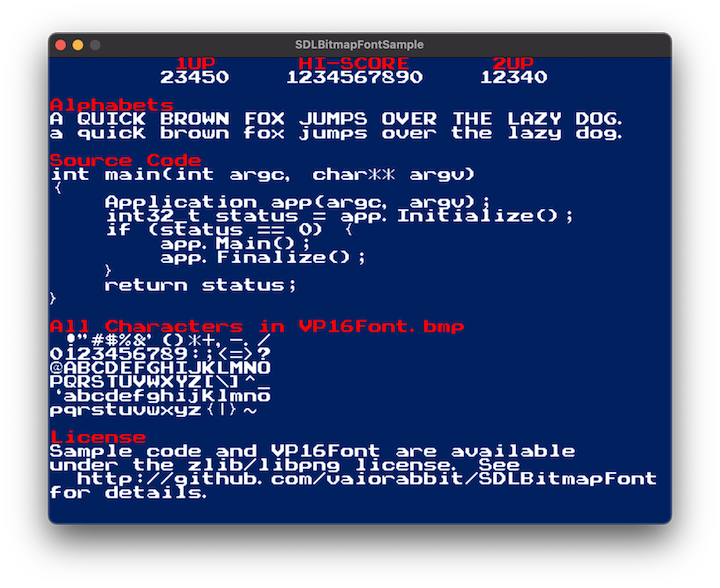
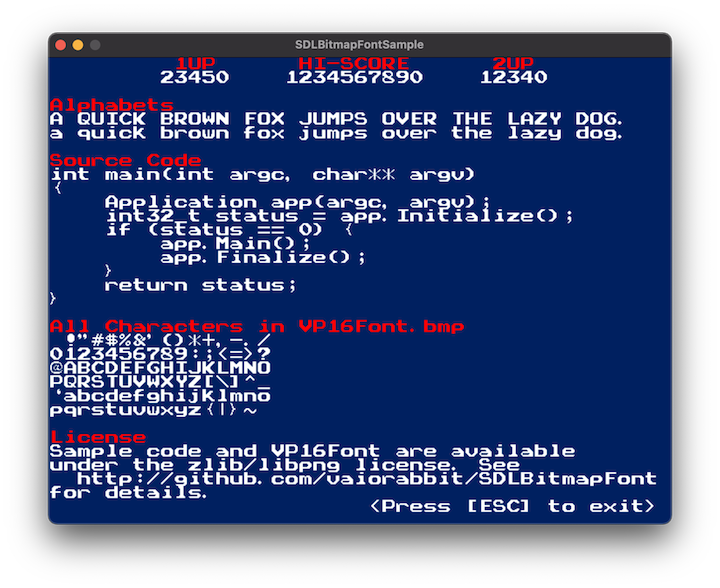
Cleanup sample

Changed region(s): [[0.5194, 0.8265, 0.7333, 0.8878], [0.7639, 0.8265, 0.9167, 0.8878]]

diff --git a/sample/SDLBitmapFontSample.cpp b/sample/SDLBitmapFontSample.cpp
@@ -17,6 +17,7 @@ public:
 
     int32_t Initialize()
     {
+        // Initialize SDL
         uint32_t initFlag = SDL_INIT_VIDEO;
 
         if (SDL_Init(initFlag) != 0) {
@@ -29,7 +30,7 @@ public:
 
         // Font
         const SDL_Color colorWhite = {255, 255, 255, 255};
-        const SDL_Color colorRed = {255 , 0, 0, 255};
+        const SDL_Color colorRed = {255, 0, 0, 255};
 
         m_fontNormal = new SDLBitmapFont();
         m_fontHeader = new SDLBitmapFont();
@@ -72,45 +73,51 @@ public:
                 }
             }
 
-            SDL_Color colorClear = {0x00, 0x20, 0x60, 0x00};
+            const SDL_Color colorClear = {0x00, 0x20, 0x60, 0x00};
             SDL_SetRenderDrawColor(m_renderer, colorClear.r, colorClear.g, colorClear.b, colorClear.a);
             SDL_RenderClear(m_renderer);
 
-            m_fontHeader->RenderText(m_renderer, 0, 16 * 0, "         1UP      HI-SCORE      2UP");
-            m_fontNormal->RenderText(m_renderer, 0, 16 * 1, "        23450    1234567890    12340");
+            const int32_t FW = 16; // Font width
+            m_fontHeader->RenderText(m_renderer, 0, FW * 0, "         1UP      HI-SCORE      2UP");
+            m_fontNormal->RenderText(m_renderer, 0, FW * 1, "        23450    1234567890    12340");
 
-            m_fontHeader->RenderText(m_renderer, 0, 16 * 3, "Alphabets");
-            m_fontNormal->RenderText(m_renderer, 0, 16 * 4, "A QUICK BROWN FOX JUMPS OVER THE LAZY DOG.");
-            m_fontNormal->RenderText(m_renderer, 0, 16 * 5, "a quick brown fox jumps over the lazy dog.");
+            m_fontHeader->RenderText(m_renderer, 0, FW * 3, "Alphabets");
+            m_fontNormal->RenderText(m_renderer, 0, FW * 4, "A QUICK BROWN FOX JUMPS OVER THE LAZY DOG.");
+            m_fontNormal->RenderText(m_renderer, 0, FW * 5, "a quick brown fox jumps over the lazy dog.");
 
-            m_fontHeader->RenderText(m_renderer, 0, 16 * 7, "Source Code");
-            m_fontNormal->RenderText(m_renderer, 0, 16 * 8,
-                                         "int main(int argc, char** argv)\n"
-                                         "{\n"
-                                         "    Application app(argc, argv);\n"
-                                         "    int32_t status = app.Initialize();\n"
-                                         "    if (status == 0) {\n"
-                                         "        app.Main();\n"
-                                         "        app.Finalize();\n"
-                                         "    }\n"
-                                         "    return status;\n"
-                                         "}");
+            m_fontHeader->RenderText(m_renderer, 0, FW * 7, "Source Code");
+            m_fontNormal->RenderText(m_renderer, 0, FW * 8,
+                "int main(int argc, char** argv)\n"
+                "{\n"
+                "    Application app(argc, argv);\n"
+                "    int32_t status = app.Initialize();\n"
+                "    if (status == 0) {\n"
+                "        app.Main();\n"
+                "        app.Finalize();\n"
+                "    }\n"
+                "    return status;\n"
+                "}");
 
-            m_fontHeader->RenderText(m_renderer, 0, 16 * 19, "All Characters in VP16Font.bmp");
-            m_fontNormal->RenderText(m_renderer, 0, 16 * 20,
-                                         " !\"#$%&'()*+,-./\n"
-                                         "0123456789:;<=>?\n"
-                                         "@ABCDEFGHIJKLMNO\n"
-                                         "PQRSTUVWXYZ[\\]^_\n"
-                                         "`abcdefghijklmno\n"
-                                         "pqrstuvwxyz{|}~ ");
+            m_fontHeader->RenderText(m_renderer, 0, FW * 19, "All Characters in VP16Font.bmp");
+            m_fontNormal->RenderText(m_renderer, 0, FW * 20,
+                " !\"#$%&'()*+,-./\n"
+                "0123456789:;<=>?\n"
+                "@ABCDEFGHIJKLMNO\n"
+                "PQRSTUVWXYZ[\\]^_\n"
+                "`abcdefghijklmno\n"
+                "pqrstuvwxyz{|}~ ");
 
-            m_fontHeader->RenderText(m_renderer, 0, 16 * 27, "License");
-            m_fontNormal->RenderText(m_renderer, 0, 16 * 28,
-                                         "Sample code and VP16Font are available\n"
-                                         "under the zlib/libpng license. See \n"
-                                         "  http://github.com/vaiorabbit/SDLBitmapFont\n"
-                                         "for details.");
+            m_fontHeader->RenderText(m_renderer, 0, FW * 27, "License");
+            m_fontNormal->RenderText(m_renderer, 0, FW * 28,
+                "Sample code and VP16Font are available\n"
+                "under the zlib/libpng license. See \n"
+                "  http://github.com/vaiorabbit/SDLBitmapFont\n"
+                "for details.");
+
+            const char msgExit[] = "<Press [ESC] to exit>";
+            size_t msgLength = FW * (sizeof(msgExit) / sizeof(msgExit[0]));
+            int32_t xRightAdjust = m_screenWidth - msgLength;
+            m_fontNormal->RenderText(m_renderer, xRightAdjust, FW * 32, msgExit);
 
             SDL_RenderPresent(m_renderer);
         }
@@ -119,8 +126,8 @@ public:
     }
 
 private:
-    int m_argc = 0;
-    char** m_argv = nullptr;
+    [[maybe_unused]] int m_argc = 0;
+    [[maybe_unused]] char** m_argv = nullptr;
 
     int m_screenWidth = 720;
     int m_screenHeight = 540;

diff --git a/SDLBitmapFont.cpp b/SDLBitmapFont.cpp
@@ -140,7 +140,7 @@ void SDLBitmapFont::RenderText(SDL_Renderer* renderer, int32_t x, int32_t y, con
             current_y += m_newlineHeight * scale;
             break;
         default:
-            char code = text[i];
+            int32_t code = text[i];
             SDL_Rect r = {current_x, current_y, m_charRects[code].w, m_charRects[code].h};
             r.w *= scale;
             r.h *= scale;
